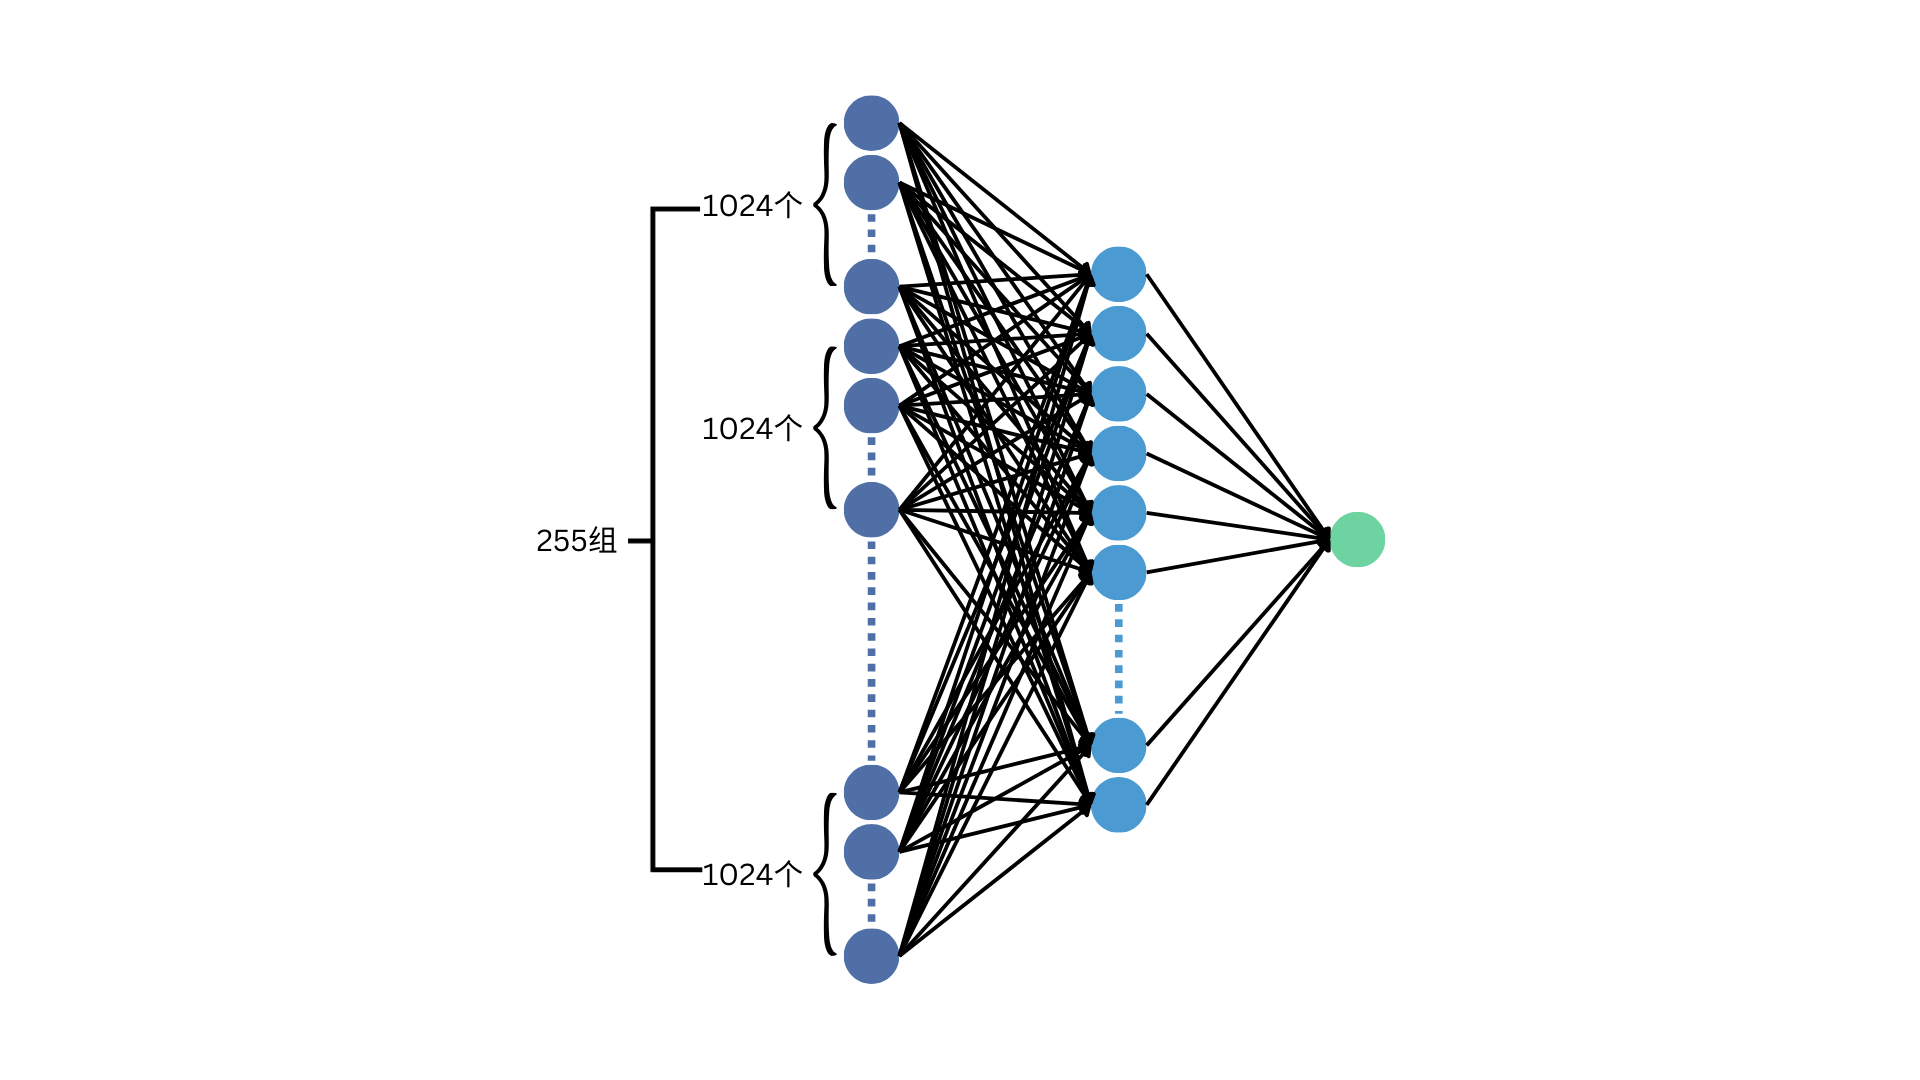
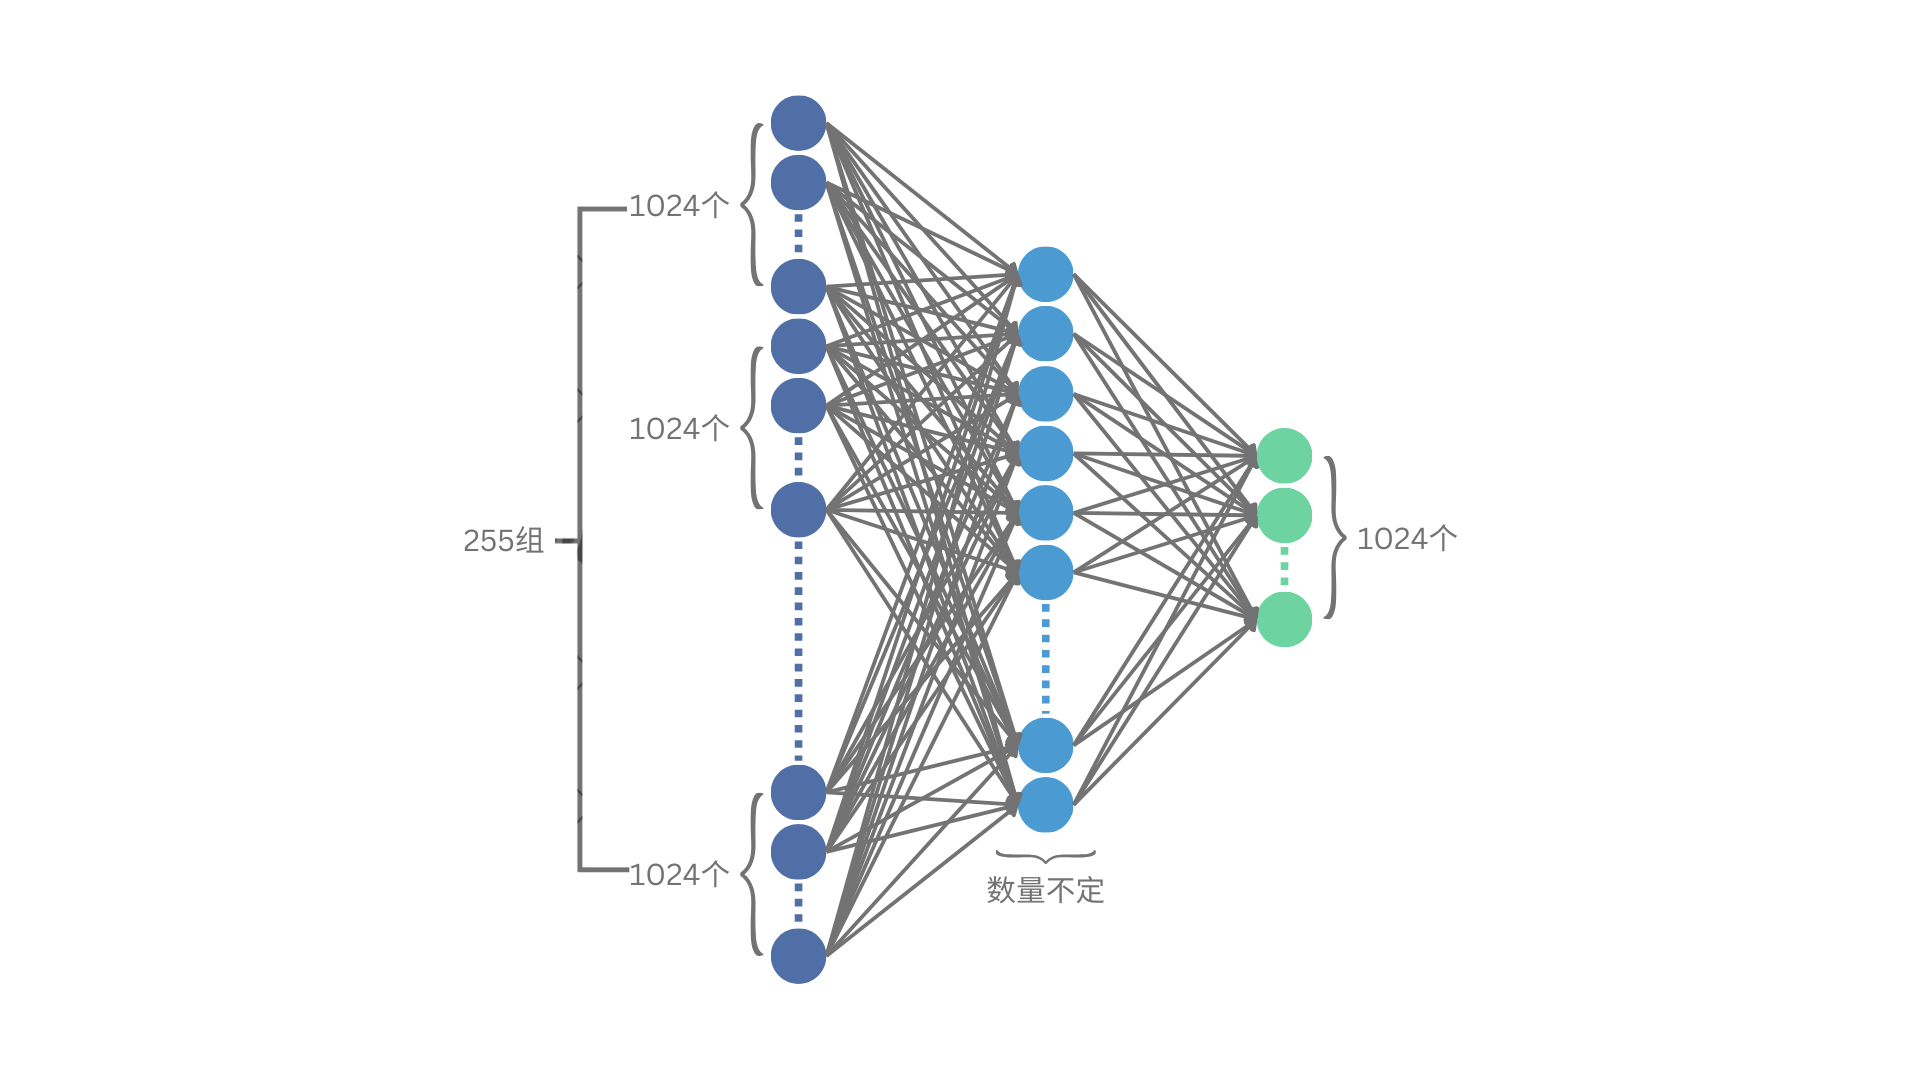
GITBOOK-6: No subject

Changed region(s): [[0.2812, 0.0917, 0.75, 0.9167], [0.25, 0.4583, 0.3438, 0.5194]]

diff --git a/book/2.-kai-shi-xing-dong/2.6-xu-lie-de-nan-ti.md b/book/2.-kai-shi-xing-dong/2.6-xu-lie-de-nan-ti.md
@@ -2,20 +2,24 @@
 
 新的问题正是我们在2.4节提到的，输入文本长短不一。
 
-输入数据的语义化并没有改善这个问题，反而让它变得更复杂了。原本，我们面对的困难是，输入字数在1\~255之间变化。现在可好，输入变成了1\*1024\~255\*1024，范围扩大了许多。此外，我们难道要把每个字的1024维向量首尾相连串在一起，像下图这样吗？
+输入数据的语义化并没有改善这个问题，反而让它变得更复杂了。原本，我们面对的困难是，输入字数在1\~255之间变化。现在可好，输入变成了1\*1024\~255\*1024，范围扩大了许多。如果仿照2.4节的模式设计模型结构的话，对于字数最多的情况，模型就会长下面这样。
 
-<figure><img src="../.gitbook/assets/flatten_full_connection (1).png" alt=""><figcaption><p>图2.1 所有字的1024维向量首尾相连作为神经网络的输入</p></figcaption></figure>
+<figure><img src="../.gitbook/assets/flatten_full_connection.png" alt=""><figcaption><p>图2.2 所有字的1024维向量首尾相连作为神经网络的输入</p></figcaption></figure>
+
+其中，输入层把所有文字的1024维向量全部排成一排；中间层数量可以任意设置，但一般不会和前后层差距过大；输出层输出1024个数。这里的实际输出正好和我们准备的期望输出维数一致，因而可以用来评估模型距离目标的差距，并在训练过程中减小这个差距。
+
+理论上这样做可行，但我们其实很容易看到其中潜在的问题。
 
 一方面，这种做法似乎泯灭了每个字的独立性，把它们全部混在一起了。另一方面，输入层和中间层的连接变得密密麻麻。连线的数量等于输入神经元的数量乘以中间层神经元的数量，这会是一个相当大的数字。图中并没有给出中间层神经元具体是多少个，但按照经验，相邻层的神经元数量不宜相差过大，所以整个神经网络的计算量将会放大约1024²倍。
 
-让我们想想办法解决这两个问题。
+有没有办法改善这两个问题呢？
 
-如果可以把每个字的1024维向量明确分开，以组为单位进行处理，像下面这个样子，是不是明显清爽了许多？
+或许可以把每个字的1024维向量明确分开，以组为单位进行处理，像下面这个样子。
 
-<figure><img src="../.gitbook/assets/grouped_full_connection.png" alt="" width="563"><figcaption><p>图2.3 神经网络的每一层都以组的单位接收或处理数据</p></figcaption></figure>
+<figure><img src="../.gitbook/assets/grouped_full_connection.png" alt=""><figcaption><p>图2.3 神经网络的每一层都以组的单位接收或处理数据</p></figcaption></figure>
 
 的确，连线变得非常稀疏，好像又回到了最初使用ID输入的模式，只不过每个输入现在不是一个ID，而是一个1024维的向量。
 
-虽然看起来很舒服，但实际上，这个图并没有规定清楚数据是如何在神经元之间传递的。在图2.2中，每条箭头明确地代表一个数的传输，接收到数据的神经元直接运行自己的非线性函数。而图2.3中，中间层的一组神经元接收来自输入的255组神经元的数据，但具体的每个神经元接收到哪些数据，图中并没有说明。也就是说，图中的连接定义了一种开放的模型结构，它只规定一组神经元连接到另一组神经元，但具体组的内部如何处理这些数据，可以有不同的实现方式。
+虽然看起来很清爽，但实际上，这个图并没有说清楚数据是如何在神经元之间传递的。在图2.2中，每条箭头明确地代表一个数，中间层神经元接收到几个箭头，它代表的函数就有几个自变量。而图2.3中，中间层的一组神经元接收来自输入的255组神经元的数据，但具体的每个神经元接收到哪些数据，图中并没有说明。也就是说，图中的连接定义了一种开放的模型结构，它只规定一组神经元连接到另一组神经元，但具体组的内部如何处理这些数据，可以有不同的实现方式。
 
 至于怎样实现最好，下节就来揭晓答案。

diff --git a/book/2.-kai-shi-xing-dong/2.7-zhu-yi-li-ji-zhi.md b/book/2.-kai-shi-xing-dong/2.7-zhu-yi-li-ji-zhi.md
@@ -1,0 +1,15 @@
+# 2.7 注意力机制
+
+图2.3的连线其实有更为直观的解释。由于每组向量对应于一个字，我们可以认为它构建了字与字之间的连接关系。细心的同学可能发现，虽然中间层每组向量的元素个数可以与输入不同，但向量的组数却仍然是255个。图中可以看到，每个输入向量都发出了一条水平箭头指向右侧的中间层向量。这其实是经过精心设计的。
+
+理论上，中间层的组数也可以任意设置，就像图2.2中的连接一样，不用考虑中间层具体有多少个神经元。但让它和输入层数量一致有明显的好处。一方面，从语义上我们更容易区分每个中间层向量到底与哪个字对应；另一方面，我们可以增加层数，在中间层和输出层之间再插入若干个中间层，而且每一层的每个向量都可以对应于特定的字。
+
+当向量与字对应之后，我们就对整个神经网络在做的事情有了一个宏观的了解。比如，我们可以认为，图2.3中间层的第一组神经元尝试从输入的255个字中提取信息，以加深自己对第一个字的理解。换句话说，第一个字在1024维空间中的高维表示从输入向量变成了中间层的输出变量，而且综合了其它字的信息。你可能暂时想不明白这个这个变化意味着什么，我们来看个例子。
+
+假设输入的是这么一句话：“只要你向着阳光走，影子就会躲在后面”。这句话里面，“光”代表光明的未来，是一种积极的意象。但如果换成这句：“我炒股把家底都输光了”。这里面的“光”则表示空空如也，暗示着悲惨的结局。多义字在中文并不少见，这也是为什么2.5节强调了我们要在高维空间中表示字的含义。然而，虽然输入层的“光”需要包括它所蕴含的各种含义，中间层则不一定。在看过了整句话中的其它字后，作为人类，我们很容易明白，“光”在当前这句话中具体体现的含义。于是，中间层的“光”可以只保留有关的含义而丢弃无关的含义，向量在1024维空间中从原始位置移动到另一个更接近其真实用意的位置。这便是我们希望神经网络做的事情。
+
+{% hint style="info" %}
+我们是在从神经网络的结构推测其内部的工作机制，虽然不一定对，但结构与功能通常是紧密相关的。正因为我们希望它以某种方式处理数据，我们才把网络设计成特定的样子。本文有时以目标出发引导大家想出合理的方案，但有时我会直接给出合理的方案，然后解释为什么这样设计。希望读者可以跟随文中的思路，必要时停下来思考一下再往后读。
+{% endhint %}
+
+如果我们再进一步细化这件事，

diff --git a/book/SUMMARY.md b/book/SUMMARY.md
@@ -13,4 +13,5 @@
   * [2.4 搭建模型](2.-kai-shi-xing-dong/2.4-da-jian-mo-xing.md)
   * [2.5 高维语义空间](2.-kai-shi-xing-dong/2.5-gao-wei-yu-yi-kong-jian.md)
   * [2.6 序列的难题](2.-kai-shi-xing-dong/2.6-xu-lie-de-nan-ti.md)
+  * [2.7 注意力机制](2.-kai-shi-xing-dong/2.7-zhu-yi-li-ji-zhi.md)
 * [3. 新的起点](3.-xin-de-qi-dian.md)
